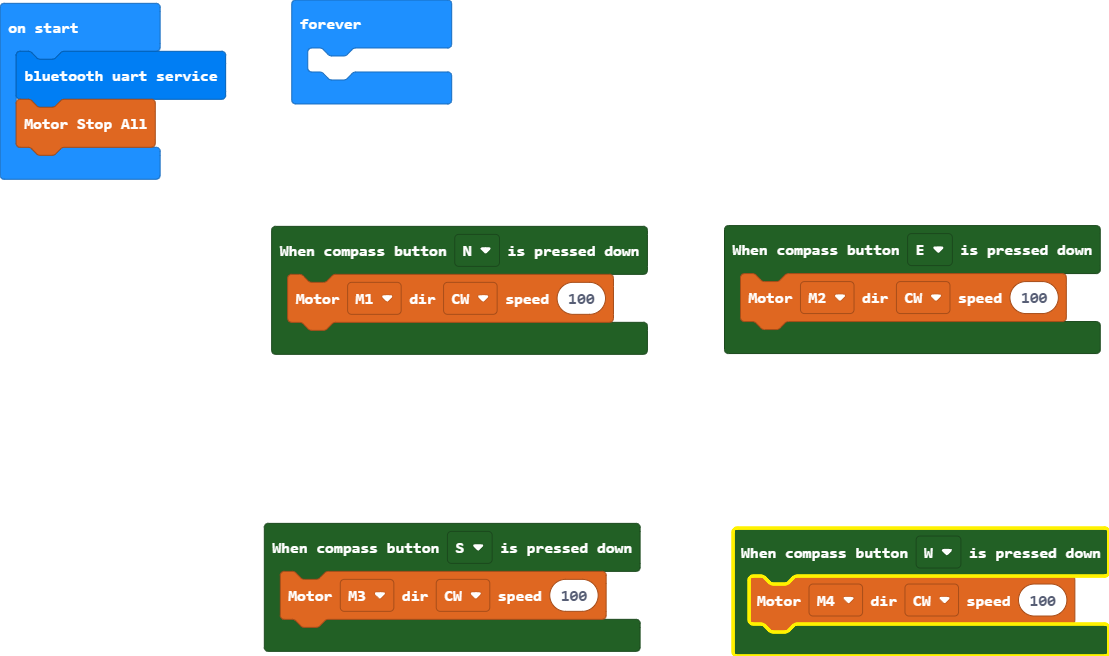
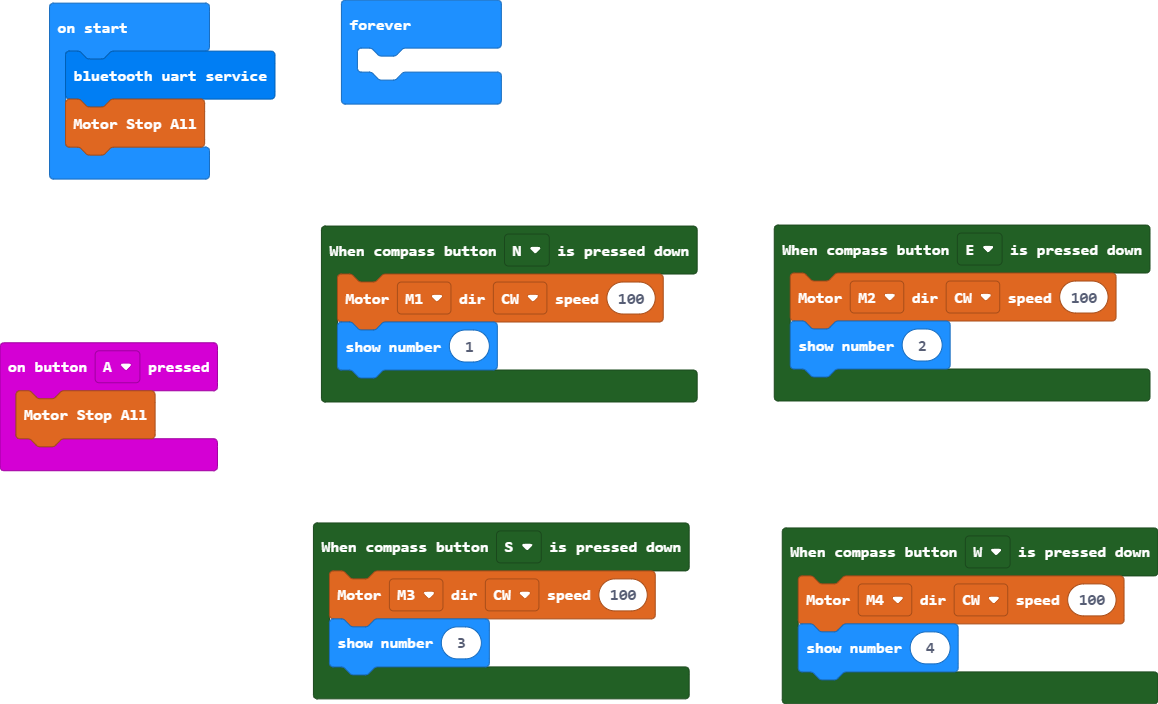
Update main.blocks, main.ts

diff --git a/main.ts b/main.ts
@@ -1,14 +1,21 @@
 microbitApp.compassButtonDown(CompassButtonOption.W, function () {
     motor.MotorRun(motor.Motors.M4, motor.Dir.CW, 100)
+    basic.showNumber(4)
 })
 microbitApp.compassButtonDown(CompassButtonOption.N, function () {
     motor.MotorRun(motor.Motors.M1, motor.Dir.CW, 100)
+    basic.showNumber(1)
+})
+input.onButtonPressed(Button.A, function () {
+    motor.motorStopAll()
 })
 microbitApp.compassButtonDown(CompassButtonOption.S, function () {
     motor.MotorRun(motor.Motors.M3, motor.Dir.CW, 100)
+    basic.showNumber(3)
 })
 microbitApp.compassButtonDown(CompassButtonOption.E, function () {
     motor.MotorRun(motor.Motors.M2, motor.Dir.CW, 100)
+    basic.showNumber(2)
 })
 bluetooth.startUartService()
 motor.motorStopAll()
